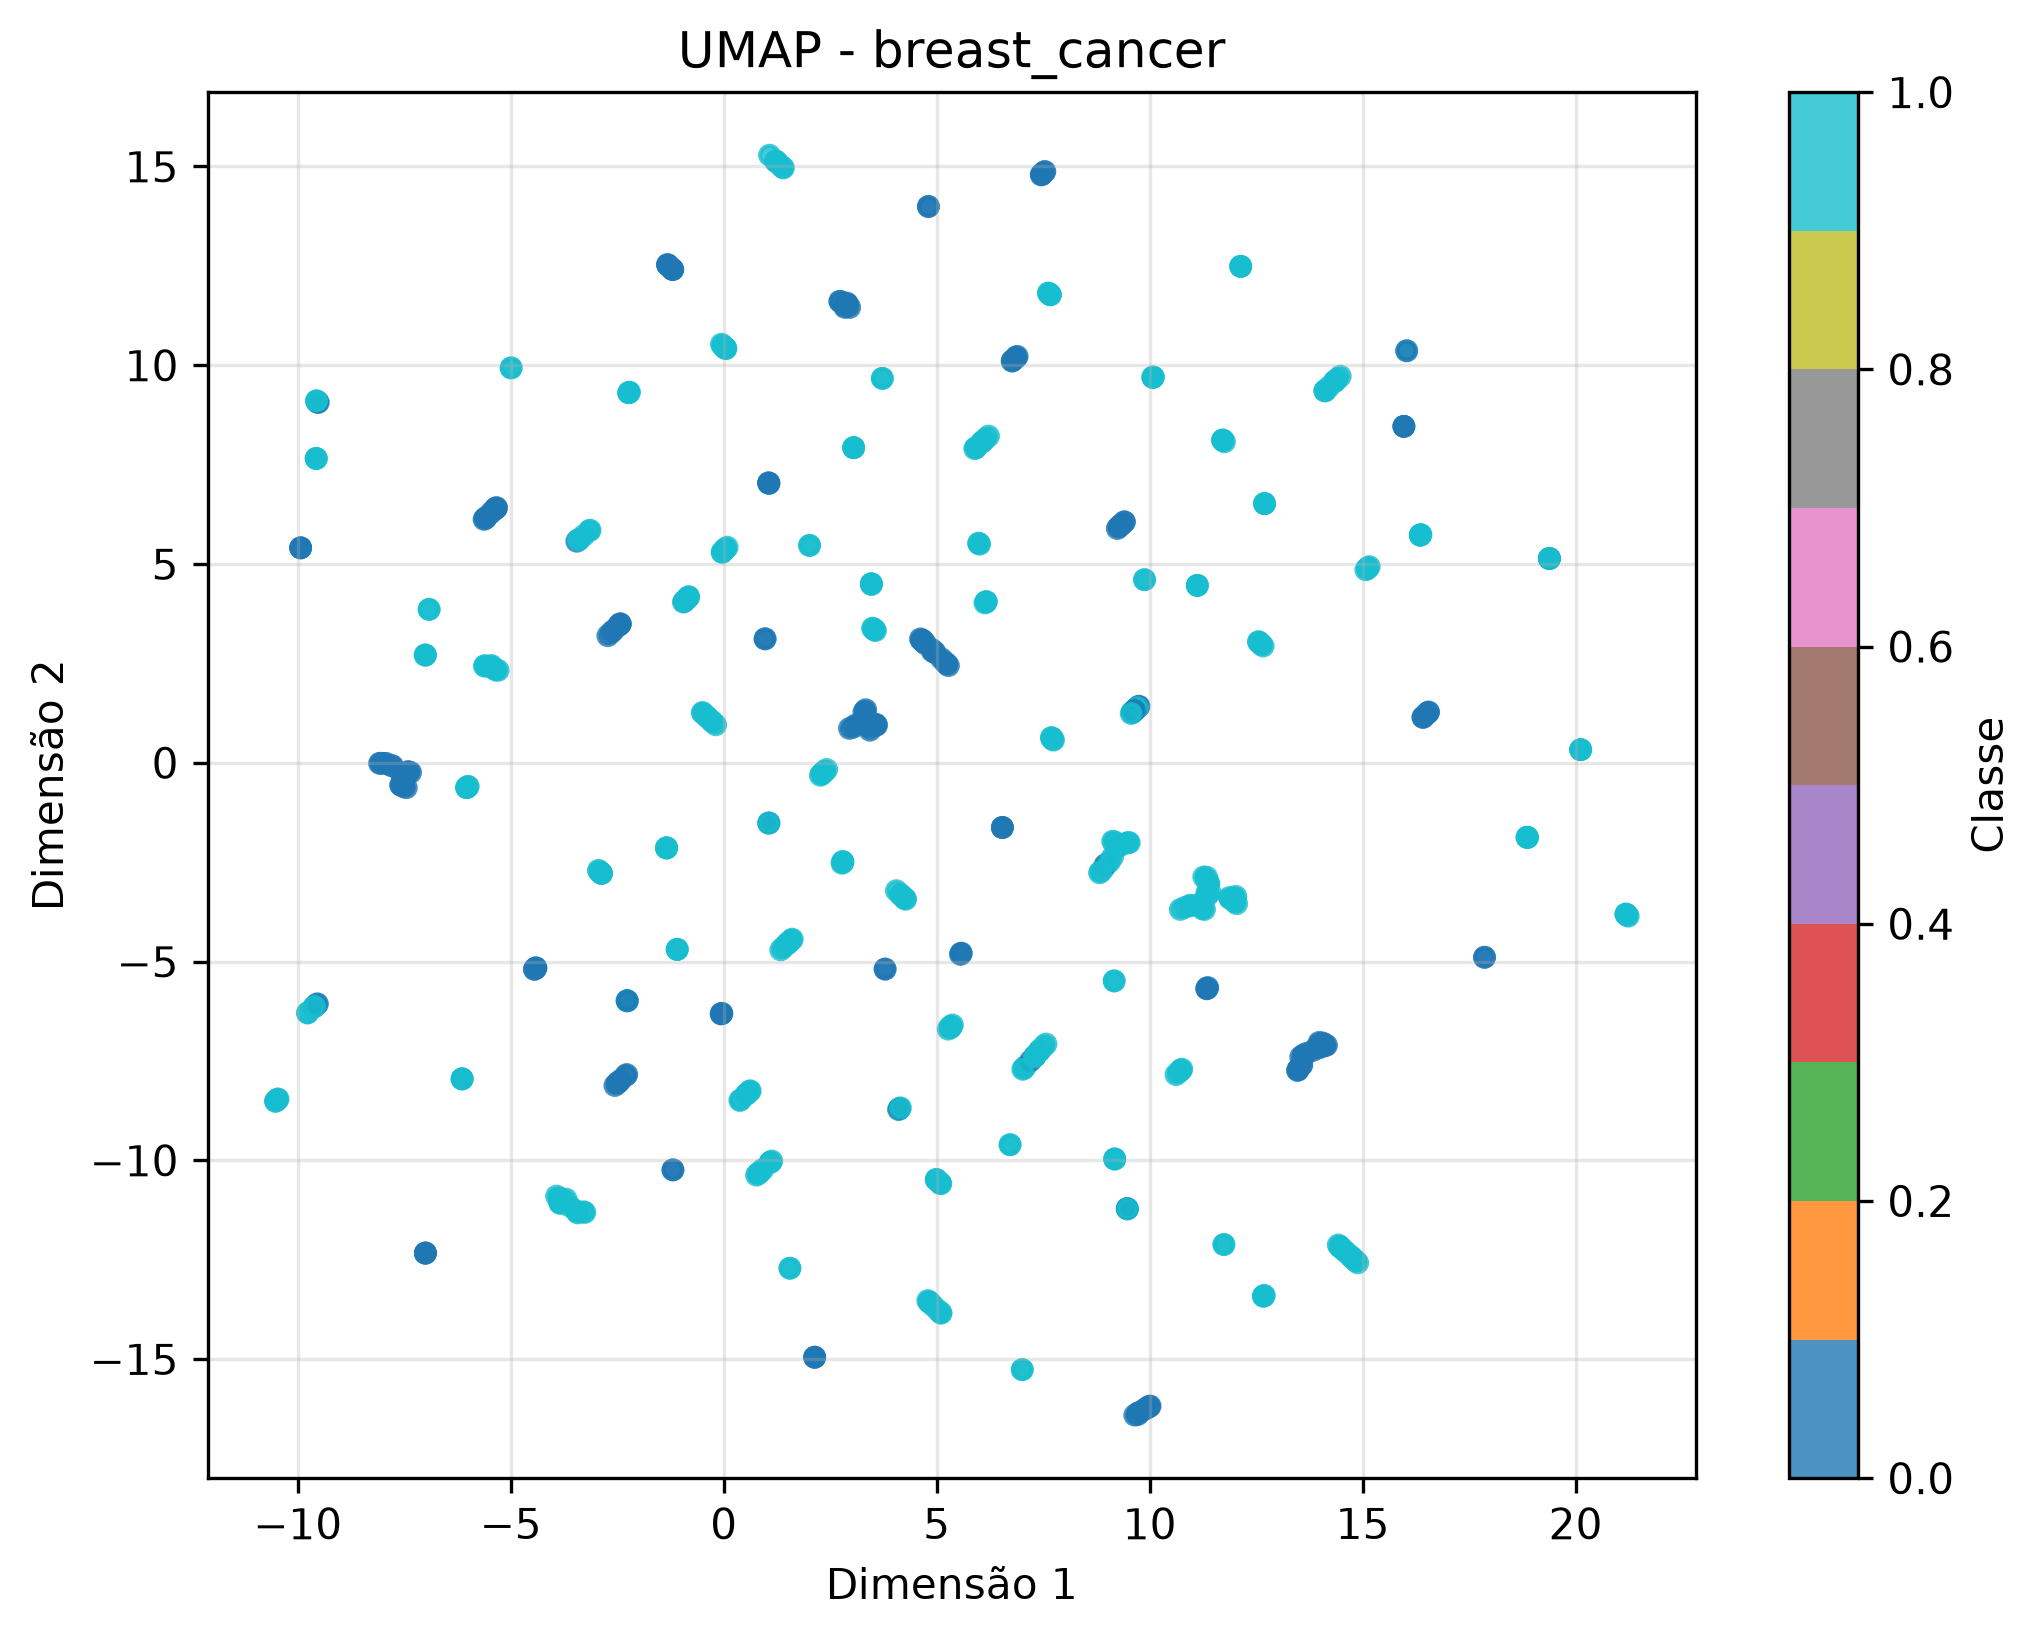
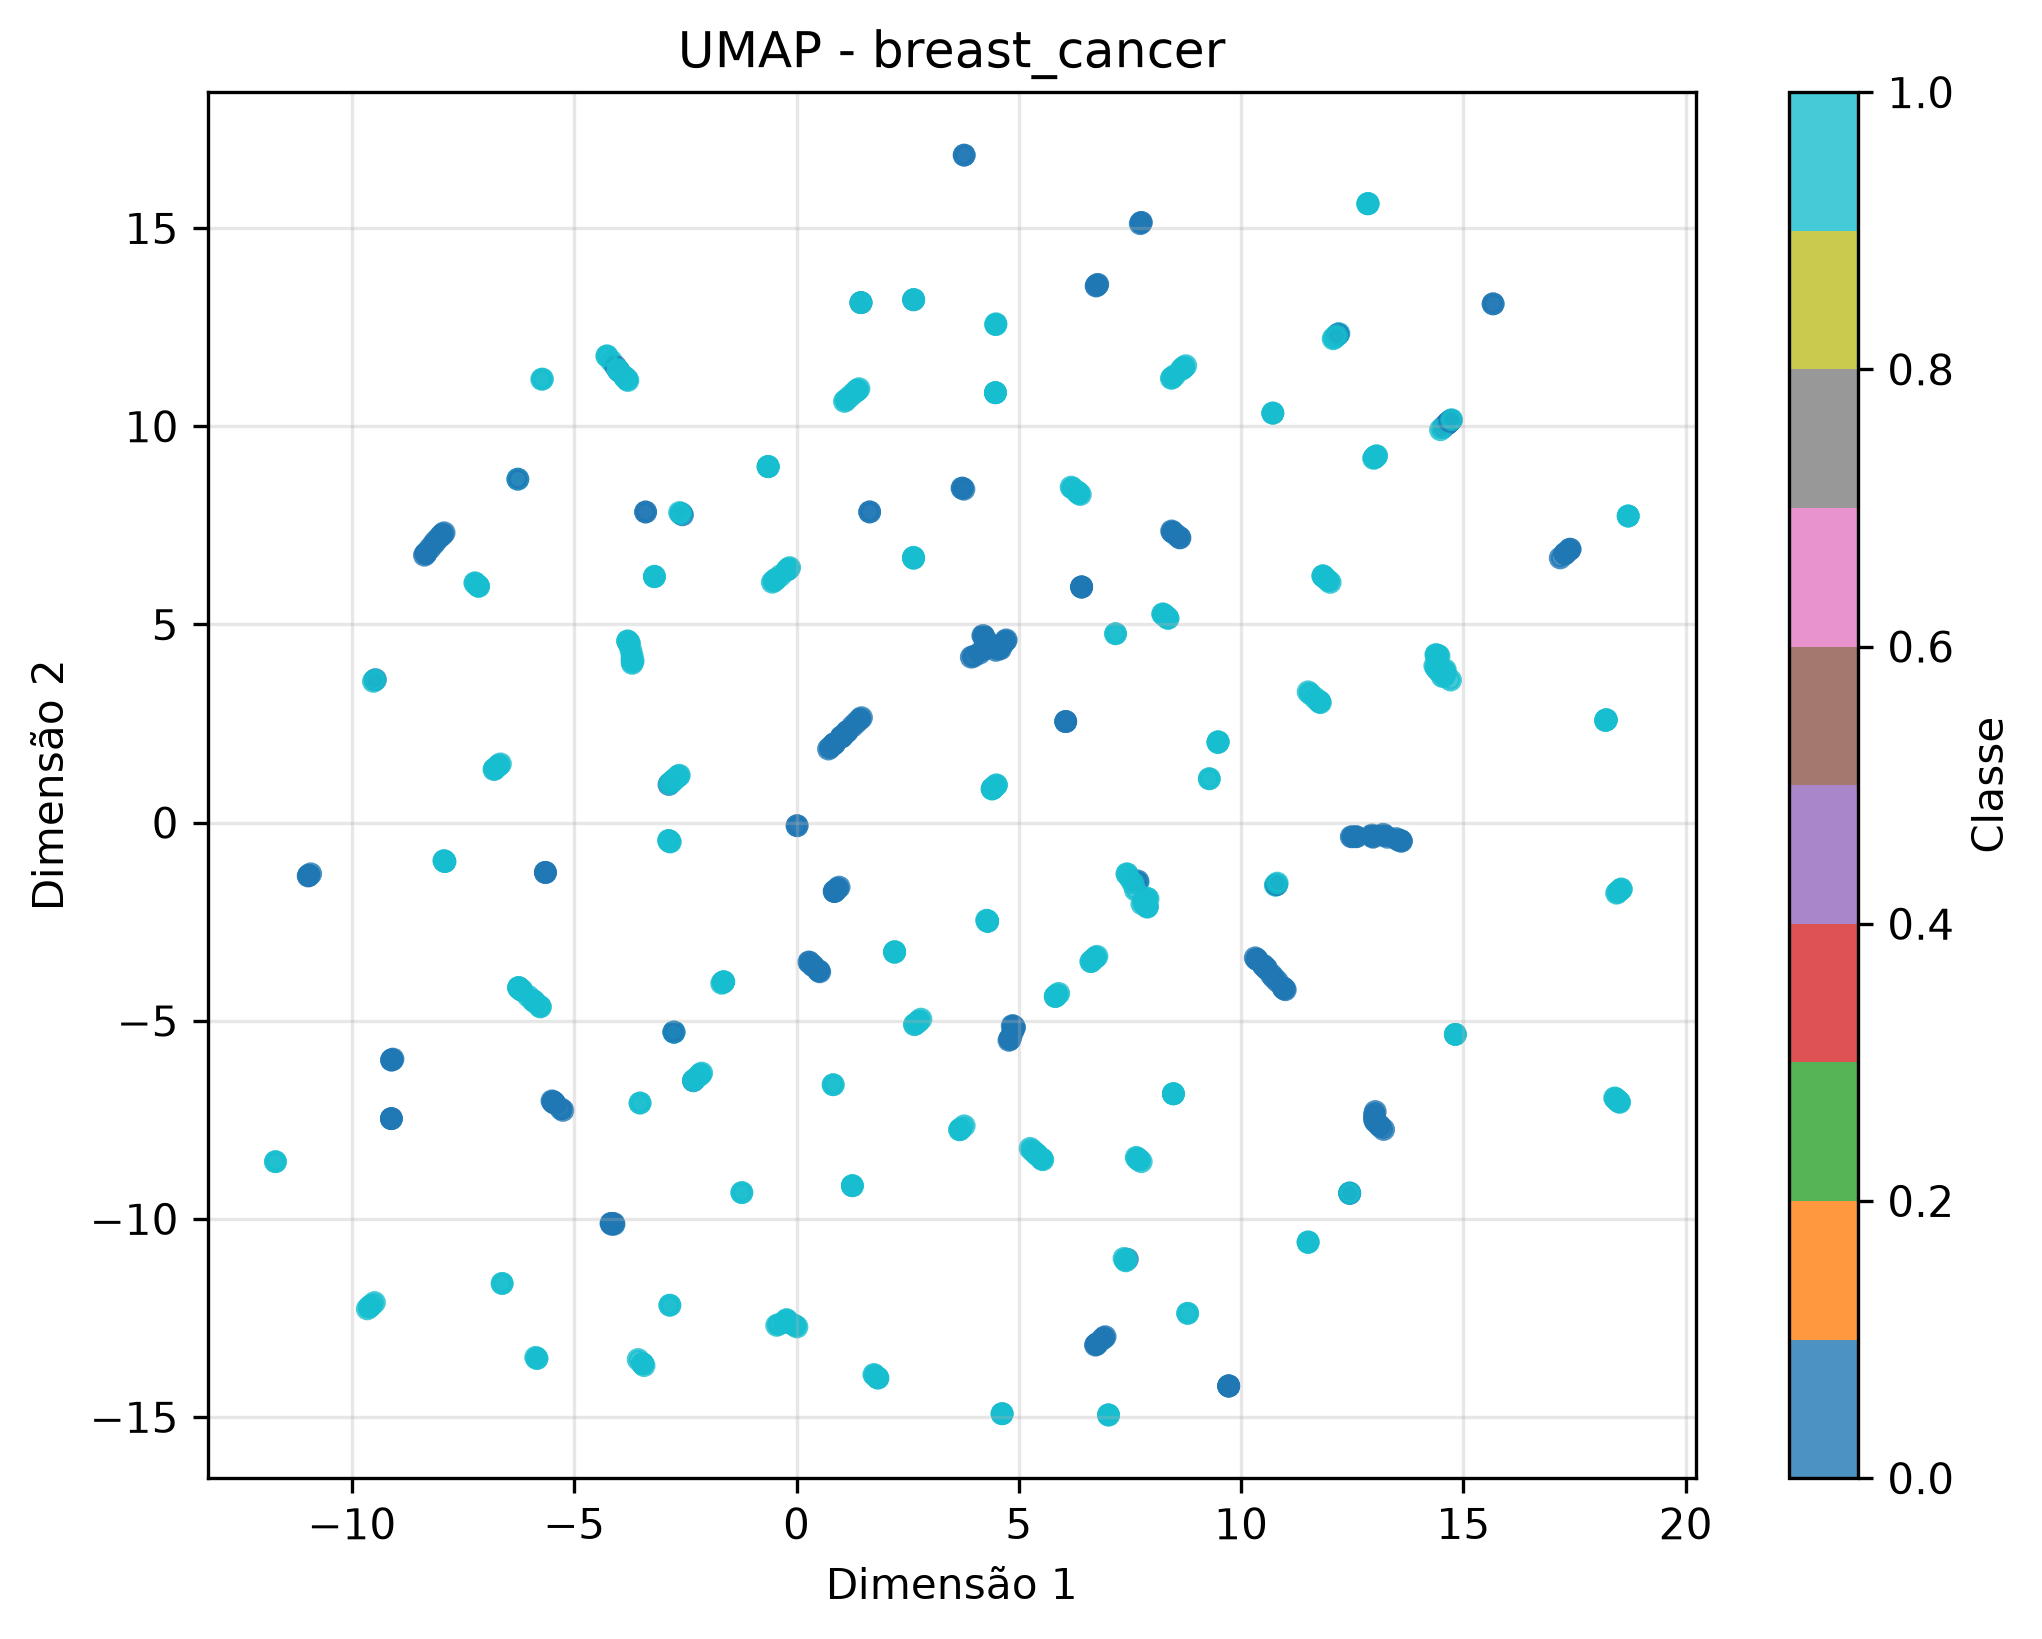
Adiciona suporte ao dataset "digits" e gera visualizações com técnicas de redução de dimensionalidade

diff --git a/datasets_loader.py b/datasets_loader.py
@@ -1,5 +1,5 @@
 import pandas as pd
-from sklearn.datasets import load_iris, load_wine, load_breast_cancer
+from sklearn.datasets import load_iris, load_wine, load_breast_cancer, load_digits
 from sklearn.preprocessing import StandardScaler
 
 def prepare_dataset(data, target, feature_names=None,
@@ -49,6 +49,13 @@ def carregar_datasets():
         breast_cancer.data,
         breast_cancer.target,
         breast_cancer.feature_names
+    )
+
+    digits = load_digits()
+    datasets["digits"] = prepare_dataset(
+        digits.data,
+        digits.target,
+        digits.feature_names
     )
 
     return datasets
